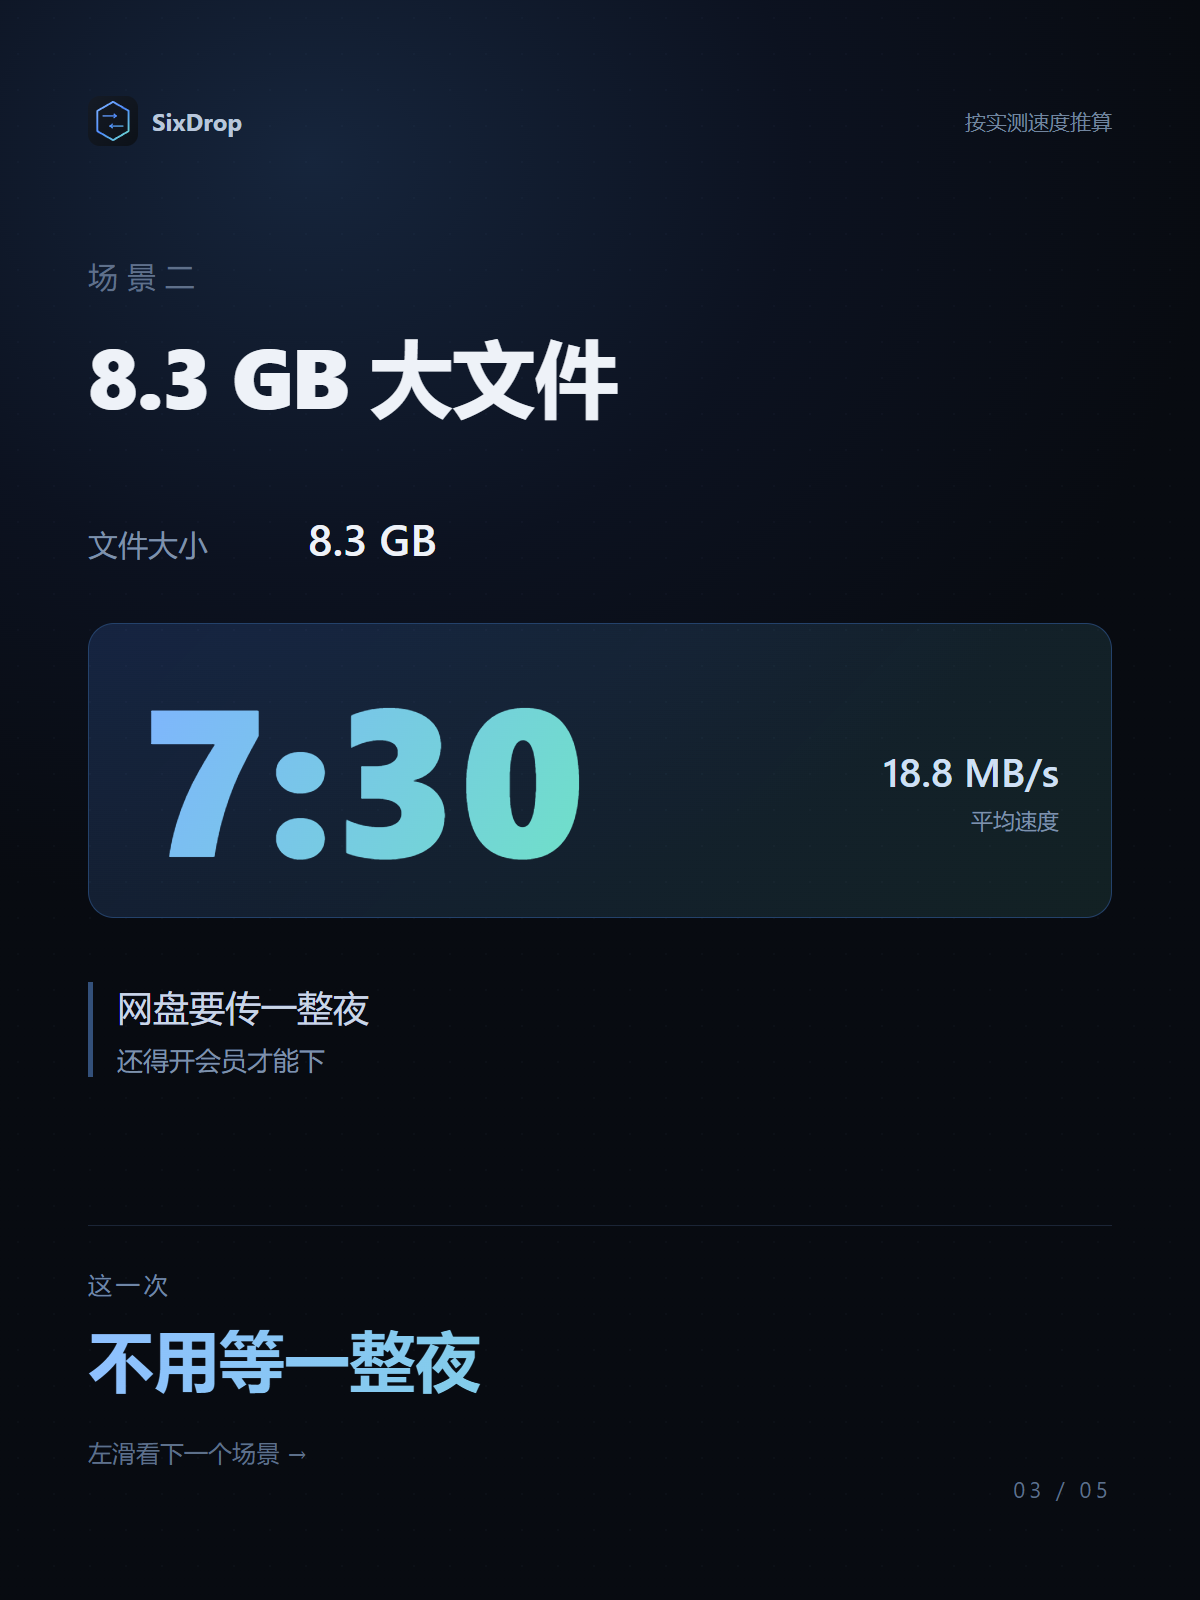
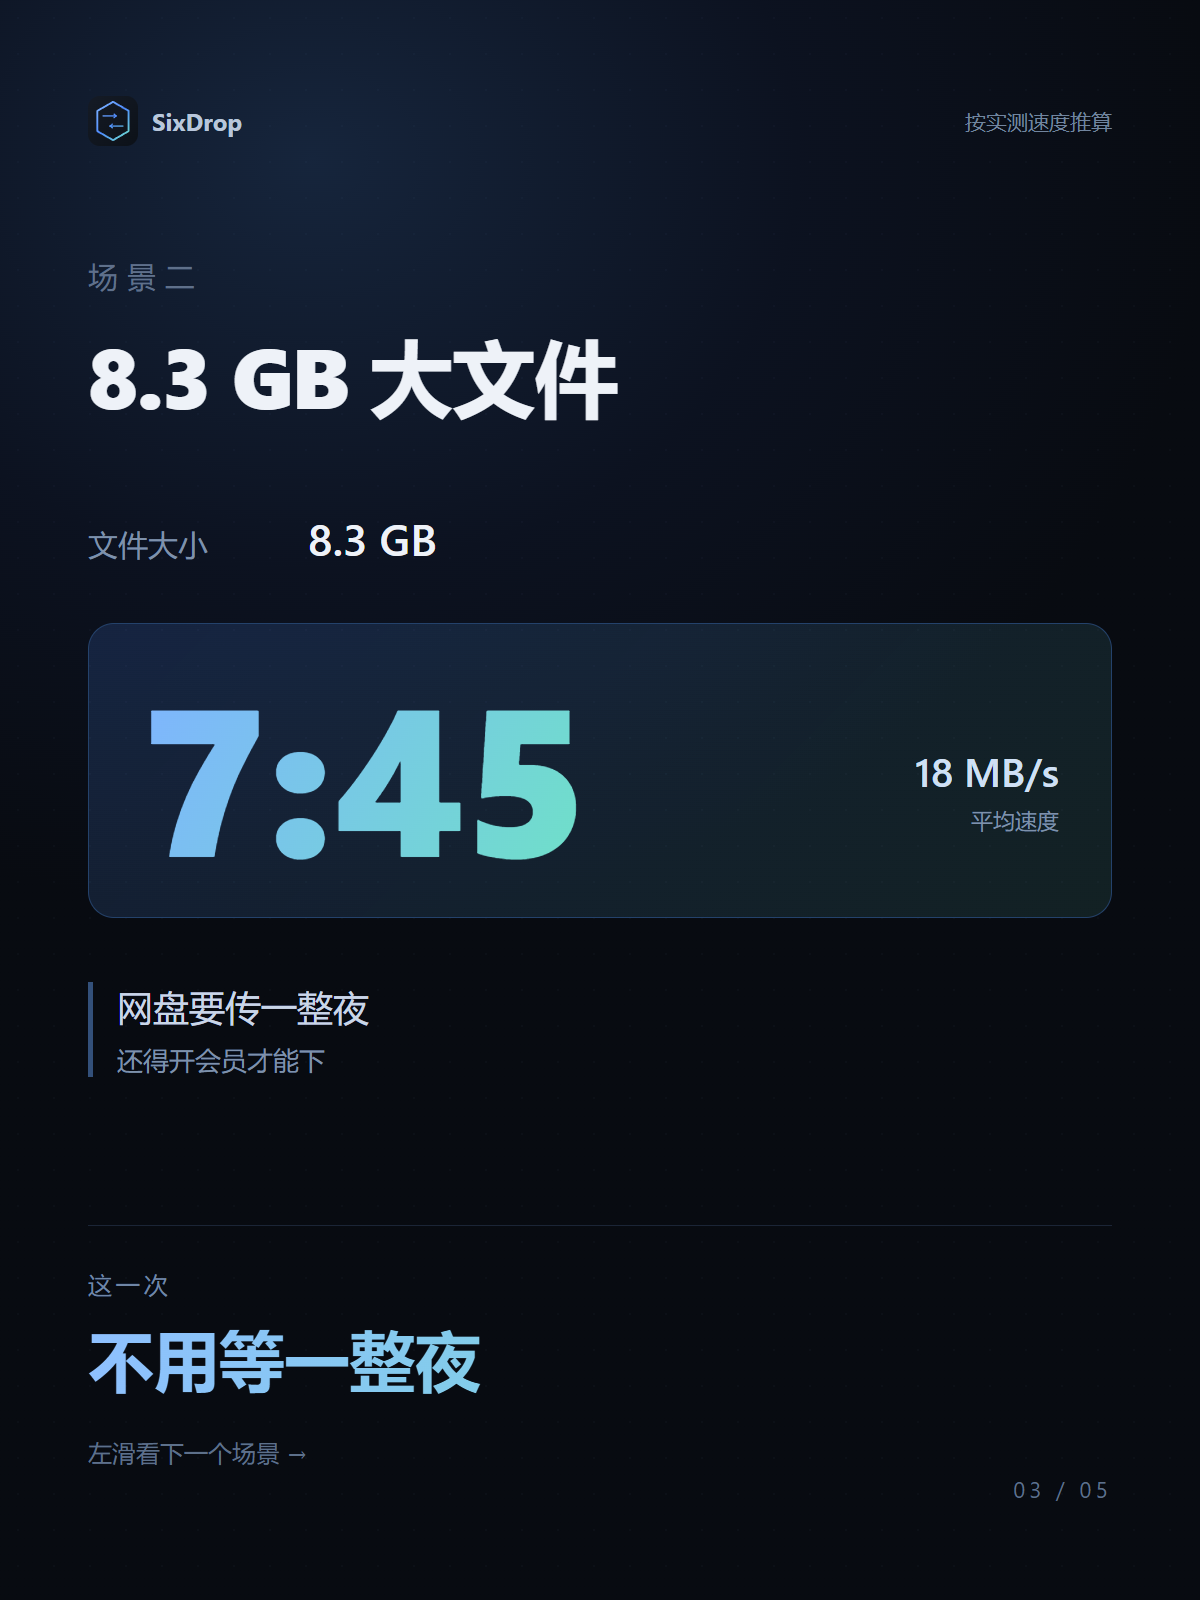
perf: prefetch the first 8MB while waiting for the receiver to accept
The first ~5s of a phone->PC transfer ran at 0.3-1 MB/s because the sender
only opened the file after accept, hitting a cold read on phone storage.
Pre-reading during the confirm window lifts the average from 16.8 to ~21.

Changed region(s): [[0.2775, 0.4375, 0.4933, 0.5625], [0.74, 0.4688, 0.8017, 0.5]]

diff --git a/public/app.js b/public/app.js
@@ -2,6 +2,7 @@
 const CHUNK_LIMIT =
   Math.min(256, Math.max(16, Number(new URLSearchParams(location.search).get('chunk')) || 256)) * 1024;
 const HIGH_WATER = 8 * 1024 * 1024;
+const PREFETCH_BYTES = 8 * 1024 * 1024;
 const LOW_WATER = 2 * 1024 * 1024;
 const JOIN_TIMEOUT = 8000;
 const CONNECT_TIMEOUT = 30000;
@@ -699,9 +700,14 @@ async function beginSending() {
       }
 
       // 只有第一个文件需要等对方确认；确认一次，后面自动接着传
+      let warm = null;
       if (i === 0) {
+        // 对方点「接收」前有几秒空闲，这段时间先把开头读进内存，
+        // 否则握手完成后的第一次读盘（手机上尤其慢）会把开头拖成龟速
+        const warmPromised = prefetch(file, chunkSize, PREFETCH_BYTES);
         const accepted = await waitAccept();
         if (!accepted) return;
+        warm = await warmPromised;
       }
 
       $('xfer-name').textContent = file.name;
@@ -711,10 +717,14 @@ async function beginSending() {
       progress(0, file.size);
 
       let offset = 0;
+      let warmIndex = 0;
       while (offset < file.size) {
         if (s.done) return;
         await waitForDrain(dc);
-        const buf = await file.slice(offset, offset + chunkSize).arrayBuffer();
+        const buf =
+          warm && warmIndex < warm.length
+            ? warm[warmIndex++]
+            : await file.slice(offset, offset + chunkSize).arrayBuffer();
         await sendChunk(dc, buf);
         offset += buf.byteLength;
         s.sentBytes += buf.byteLength;
@@ -731,10 +741,27 @@ async function beginSending() {
     $('back').hidden = false;
     stopKeepalive();
     keepAwakeOff();
-    setTimeout(() => sendSignal({ t: 'bye' }), 500);
   } catch (err) {
     fail('发送失败', err?.message || String(err));
   }
+}
+
+/** 预读开头若干 MB，返回按顺序切好的 ArrayBuffer */
+async function prefetch(file, chunkSize, limit) {
+  const bufs = [];
+  let off = 0;
+  const end = Math.min(file.size, limit);
+  try {
+    while (off < end) {
+      const b = await file.slice(off, off + chunkSize).arrayBuffer();
+      if (!b.byteLength) break;
+      bufs.push(b);
+      off += b.byteLength;
+    }
+  } catch {
+    /* 预读失败不影响正常流程，后面照常按需读取 */
+  }
+  return bufs;
 }
 
 function waitAccept() {
@@ -903,7 +930,6 @@ async function finishReceive() {
   $('back').hidden = false;
   stopKeepalive();
   keepAwakeOff();
-  sendSignal({ t: 'bye' });
 }
 
 /* ---------------- 中转兜底（打洞失败时） ---------------- */
